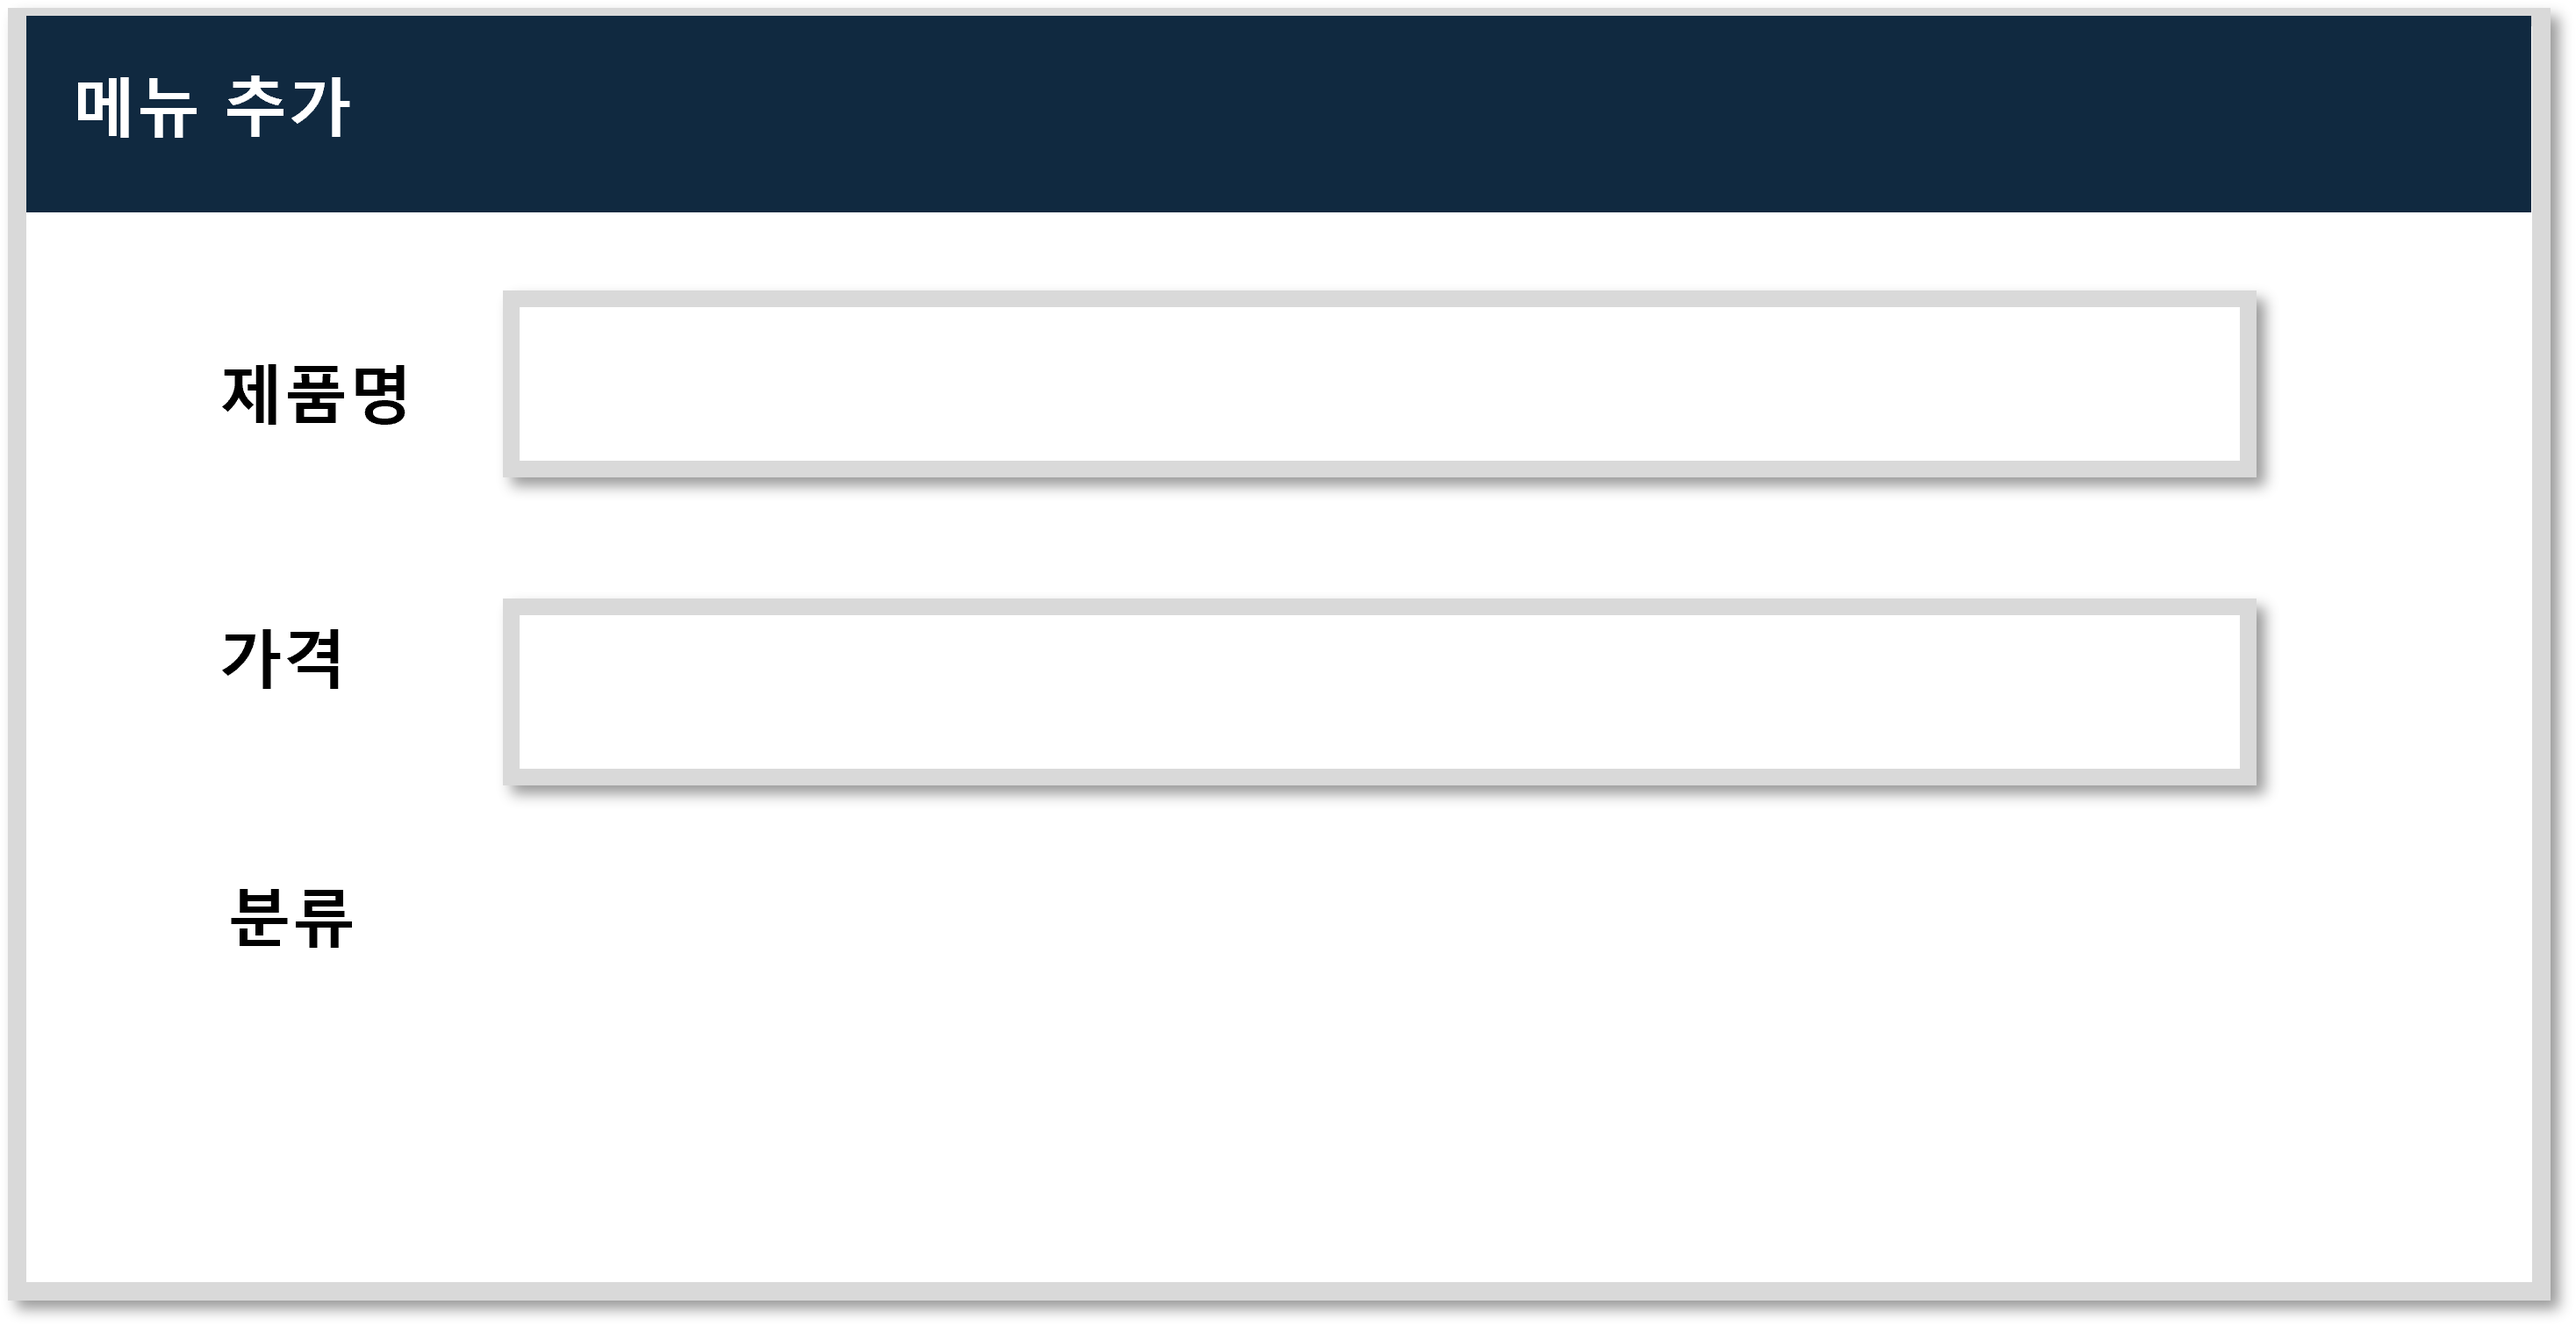
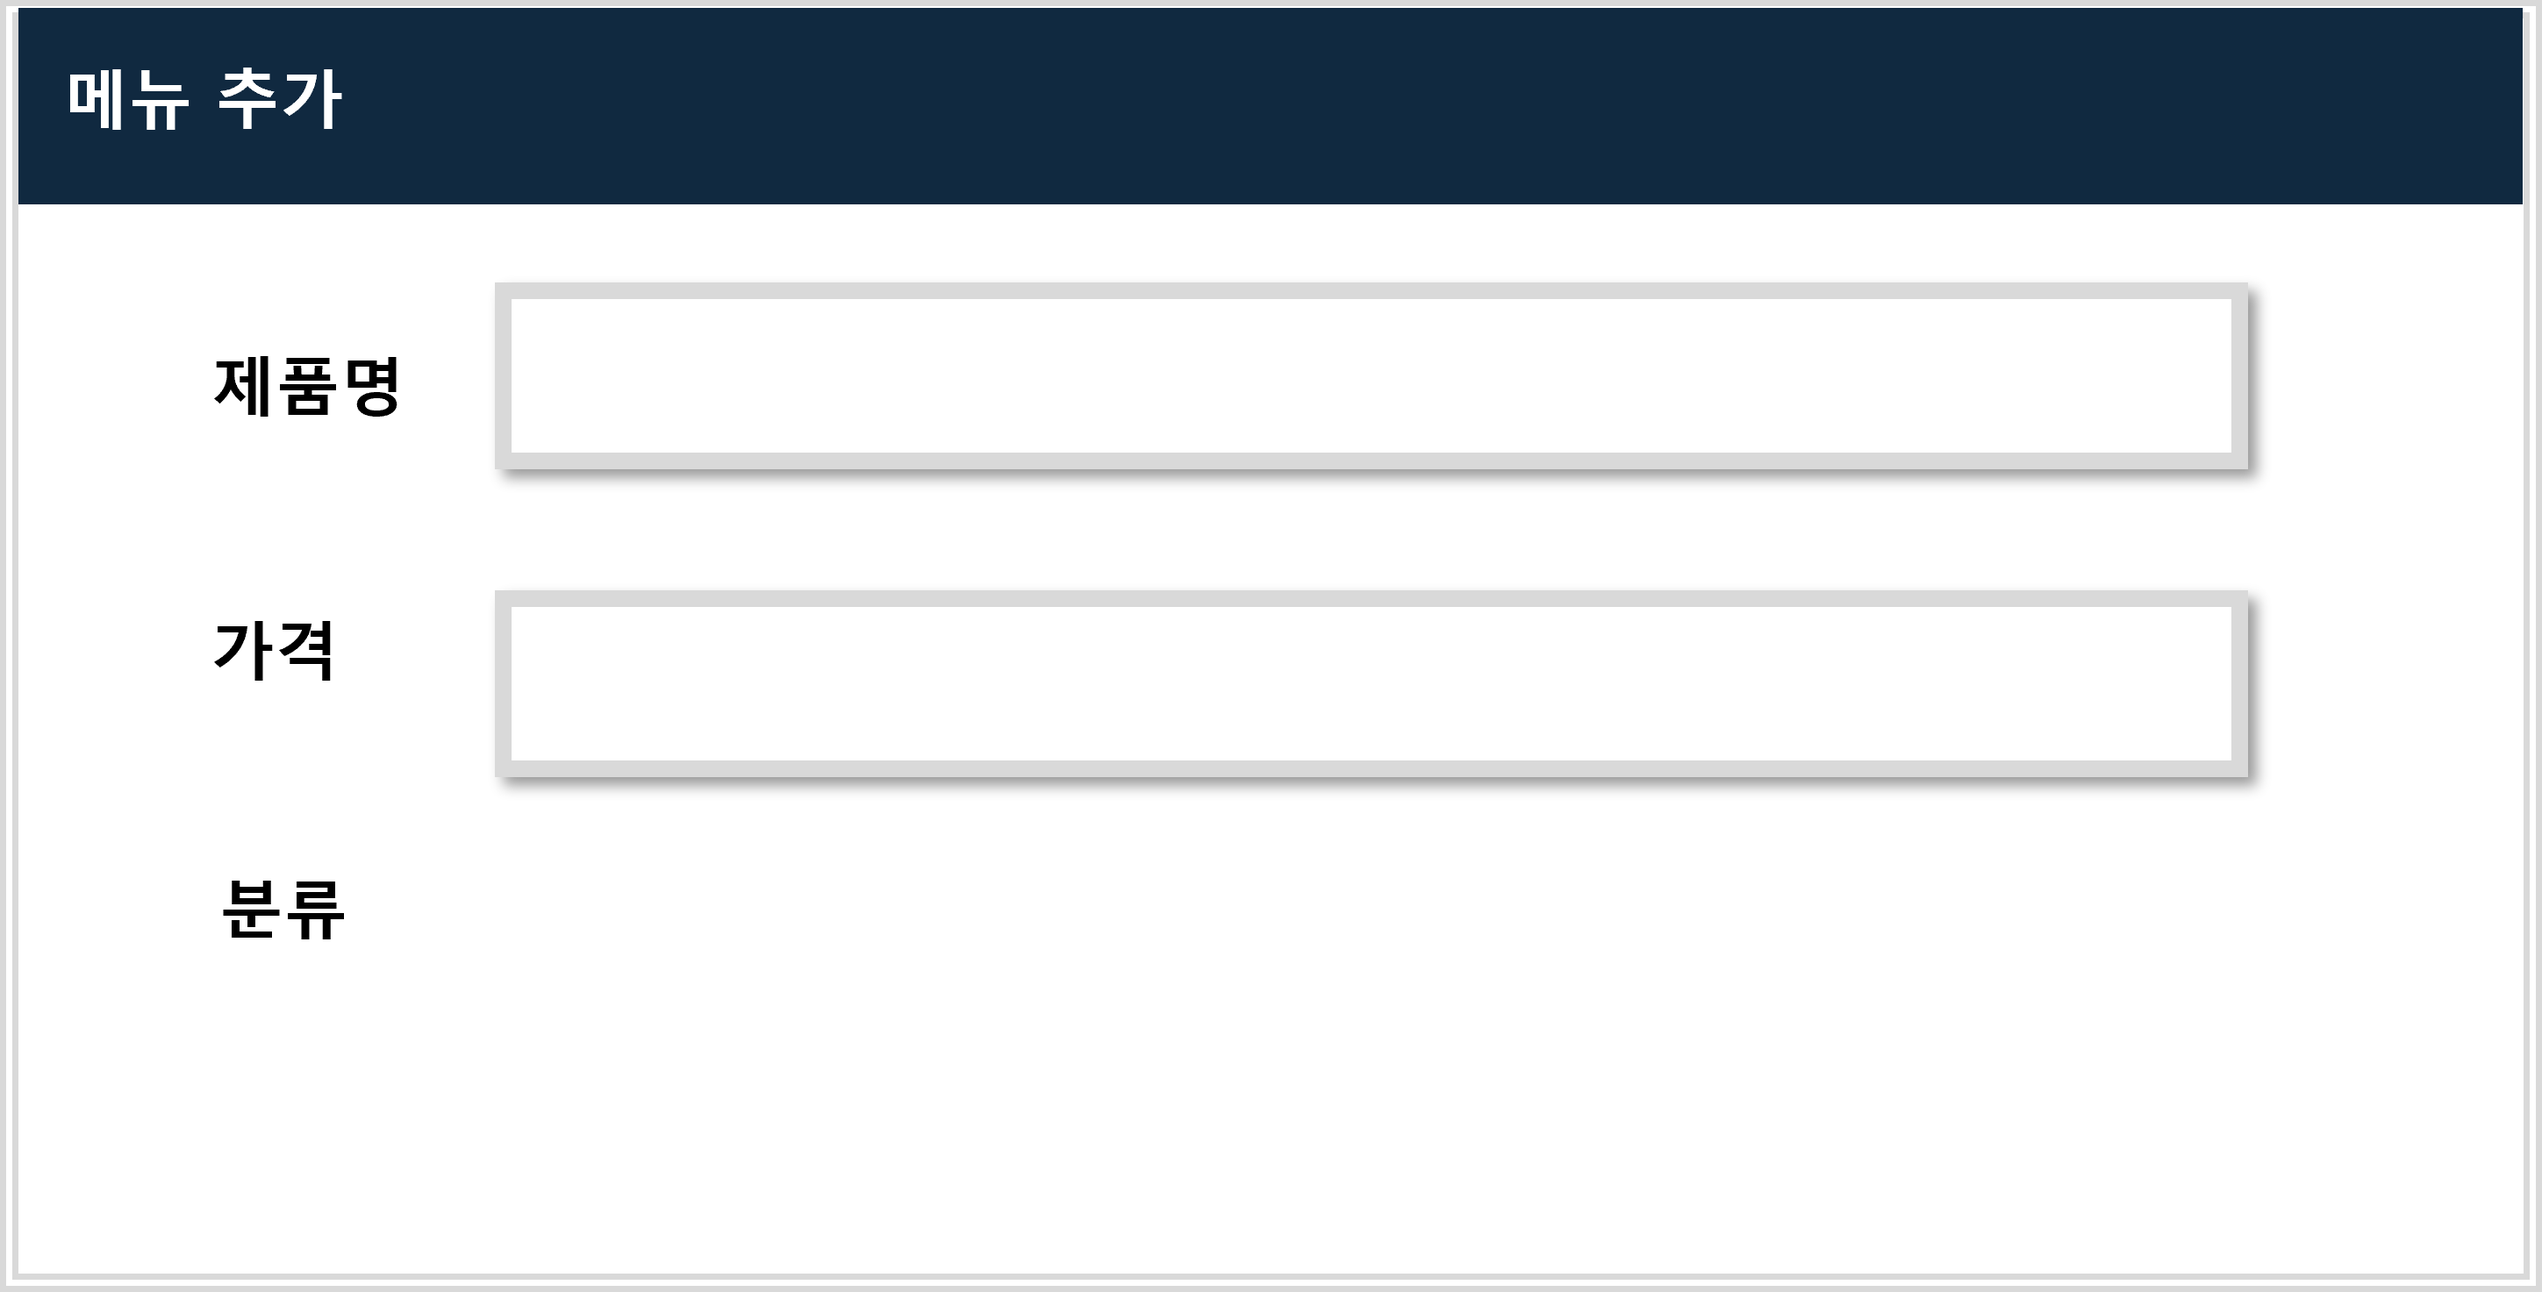
상품 관리 페이지 지금까지 한거 12.12

diff --git a/src/pos/kjh/ProductManagementJFrame.java b/src/pos/kjh/ProductManagementJFrame.java
@@ -27,62 +27,25 @@ import javax.swing.JTextField;
 public class ProductManagementJFrame extends JFrame {
 
 	TopPanel tp = new TopPanel();
-	
+	JButton btn = new JButton();
+
 	public ProductManagementJFrame() throws IOException {
+		
+		add(labelImage("PosImages/상품 관리 이미지/검색바.png", 200, 100, 700, 51));
+		add(labelImage("PosImages/상품 관리 이미지/메뉴 리스트 기본 틀.png", 48, 190, 1100, 400));
+		serch();
 		buttons();
 	}
 	
-	public void buttons() throws IOException {
-		
-
+	public JTextField serch() {
 		JTextField serch = new JTextField();
-		
+
 		serch.setBounds(215, 100, 700, 49);
 		serch.setOpaque(false);
 		serch.setBorder(javax.swing.BorderFactory.createEmptyBorder());
 		
-		add(serch);
-		
-		add(labelImage("PosImages/상품 관리 이미지/검색바.png", 200, 100, 700, 51));
-		add(labelImage("PosImages/상품 관리 이미지/메뉴 리스트 기본 틀.png", 48, 190, 1100, 400));
-		
-		add(btnImage("PosImages/상품 관리 이미지/검색 버튼.png", "PosImages/상품 관리 이미지/검색 버튼 클릭.png",  910,100,95,50));
-		add(btnImage("PosImages/상품 관리 이미지/돌아가기 버튼.png","PosImages/상품 관리 이미지/돌아가기 버튼 클릭.png", 20, 690, 110, 55));
-		add(btnImage("PosImages/상품 관리 이미지/삭제 버튼.png","PosImages/상품 관리 이미지/삭제 버튼 클릭.png", 1030, 620, 120, 55));
-		add(btnImage("PosImages/상품 관리 이미지/수정 시작 버튼.png","PosImages/상품 관리 이미지/수정 시작 버튼 클릭.png", 900, 620, 120, 55));
-		add(btnImage("PosImages/상품 관리 이미지/추가 시작 버튼.png","PosImages/상품 관리 이미지/추가 시작 버튼 클릭.png", 770, 620, 120, 55));
-		add(tp);
-		
-		JButton addBtn = btnImage("PosImages/상품 관리 이미지/추가 시작 버튼.png",
-				"PosImages/상품 관리 이미지/추가 시작 버튼 클릭.png", 
-				770, 620, 120, 55);
-		
-		addBtn.addActionListener(new ActionListener() {
-					
-					@Override
-					public void actionPerformed(ActionEvent e) {
-						JFrame menu = new JFrame();
-						
-						menu.setLayout(null);
-						menu.setSize(1000, 600);
-						menu.setVisible(true);
-						menu.getContentPane().setBackground(new Color(255, 255, 255));
-						menu.setLocationRelativeTo(null);
-						menu.setResizable(false);
-					}
-		});
-		
-		setLayout(null);
-		setSize(1200, 800);
-		setVisible(true);
-		setDefaultCloseOperation(JFrame.EXIT_ON_CLOSE);
-		getContentPane().setBackground(new Color(64, 64, 64));
-		setLocationRelativeTo(null);
-		setResizable(false);
+		return serch;
 	}
-	
-
-	
 	
 	public static JLabel labelImage(String image, int a, int b, int c, int d) throws IOException {
 		JLabel l = new JLabel();
@@ -90,20 +53,70 @@ public class ProductManagementJFrame extends JFrame {
 		Image lImage = bufferedlImage.getScaledInstance(c, d, Image.SCALE_SMOOTH);
 		l.setIcon(new ImageIcon(lImage));
 		l.setBounds(a, b, c, d);
-		
+
 		return l;
-		
+
+	}
+
+	public JButton buttons() throws IOException {
+		JButton serchBtn = btnImage("PosImages/상품 관리 이미지/검색 버튼.png", 
+				"PosImages/상품 관리 이미지/검색 버튼 클릭.png",  910,100,95,50);
+
+		JButton backBtn = btnImage("PosImages/상품 관리 이미지/돌아가기 버튼.png",
+				"PosImages/상품 관리 이미지/돌아가기 버튼 클릭.png", 20, 690, 110, 55);
+
+		JButton deleteBtn = btnImage("PosImages/상품 관리 이미지/삭제 버튼.png",
+				"PosImages/상품 관리 이미지/삭제 버튼 클릭.png", 1030, 620, 120, 55);
+
+		JButton modifyBtn = btnImage("PosImages/상품 관리 이미지/수정 시작 버튼.png",
+				"PosImages/상품 관리 이미지/수정 시작 버튼 클릭.png", 900, 620, 120, 55);
+
+		JButton addBtn = btnImage("PosImages/상품 관리 이미지/추가 시작 버튼.png",
+				"PosImages/상품 관리 이미지/추가 시작 버튼 클릭.png", 770, 620, 120, 55);
+
+		add(serchBtn);
+		add(backBtn);
+		add(deleteBtn);
+		add(modifyBtn);
+		add(addBtn);
+		add(tp);
+
+
+		addBtn.addActionListener(new ActionListener() {
+
+			@Override
+			public void actionPerformed(ActionEvent e) {
+				try {
+					new MenuAddFrame();
+				} catch (IOException e1) {
+					// TODO Auto-generated catch block
+					e1.printStackTrace();
+				}
+			}
+		});
+
+		add(addBtn);
+		setLayout(null);
+		setSize(1200, 800);
+		setVisible(true);
+		setDefaultCloseOperation(JFrame.EXIT_ON_CLOSE);
+		getContentPane().setBackground(new Color(64, 64, 64));
+		setLocationRelativeTo(null);
+		setResizable(false);
+
+		return addBtn;
 	}
 
 
-	public static JButton btnImage(String image, String clickImage, int a, int b, int c, int d) throws IOException {
 		
+	public static JButton btnImage(String image, String clickImage, int a, int b, int c, int d) throws IOException {
+
 		JButton btn = new JButton();
 		BufferedImage bufferedBtnImage = ImageIO.read(new File(image));
 		Image btnImage = bufferedBtnImage.getScaledInstance(c, d, Image.SCALE_SMOOTH);
 		btn.setIcon(new ImageIcon(btnImage));
 		btn.setBounds(a, b, c, d);
-		
+
 		btn.setBorderPainted(false);
 		btn.setContentAreaFilled(false);
 		btn.setFocusPainted(false);
@@ -114,18 +127,18 @@ public class ProductManagementJFrame extends JFrame {
 
 		btn.setPressedIcon(btnClickIcon);
 
-		
+
 		return btn;
 	}
-	
 
-	public static void main(String[] args) throws IOException {
-		new ProductManagementJFrame();
+
+		public static void main(String[] args) throws IOException {
+			new ProductManagementJFrame();
+		}
+
+
+
+
+
+
 	}
-
-
-
-
-	
-	
-}

diff --git a/src/pos/kjh/MenuAddFrame.java b/src/pos/kjh/MenuAddFrame.java
@@ -1,26 +1,100 @@
 package pos.kjh;
 
+import java.awt.Dimension;
 import java.awt.Color;
+import java.awt.Graphics;
+import java.awt.Image;
+import java.awt.image.BufferedImage;
+import java.io.File;
+import java.io.IOException;
 
+import javax.imageio.ImageIO;
+import javax.swing.Icon;
+import javax.swing.ImageIcon;
+import javax.swing.JButton;
 import javax.swing.JFrame;
+import javax.swing.JPanel;
+import javax.swing.JRadioButton;
+import javax.swing.JScrollPane;
 
 public class MenuAddFrame extends JFrame{
+	
+	JScrollPane scrollPane;
+	ImageIcon icon;
+	
+	
+	
+	public JButton fixBtn() throws IOException{
+		JButton fixBtn = new JButton();
 
-	public MenuAddFrame() {
-		openFrame();
-	}
-	
-	public void openFrame() {
+		BufferedImage bufferedfixBtnImage = ImageIO.read(new File("PosImages/상품 관리 이미지/메뉴 추가 창 확인 버튼.png"));
+		Image fixBtnImage = bufferedfixBtnImage.getScaledInstance(100,50, Image.SCALE_SMOOTH);
+		fixBtn.setIcon(new ImageIcon(fixBtnImage));
+		fixBtn.setBounds(750,380, 100,50);
+
+		fixBtn.setBorderPainted(false);
+		fixBtn.setContentAreaFilled(false);
+		fixBtn.setFocusPainted(false);
+
+		BufferedImage bufferedBtnClickImage = ImageIO.read(new File("PosImages/상품 관리 이미지/메뉴 추가 창 확인 버튼 클릭.png"));
+		Image btnClickImage = bufferedBtnClickImage.getScaledInstance(100,50, Image.SCALE_SMOOTH);
+		Icon btnClickIcon = new ImageIcon(btnClickImage);
 		
-		setLayout(null);
-		setSize(1000, 600);
-		setVisible(true);
-		getContentPane().setBackground(new Color(255, 255, 255));
-		setLocationRelativeTo(null);
-		setResizable(false);
+		fixBtn.setPressedIcon(btnClickIcon);
+
+		return fixBtn;
 	}
+
 	
-	public static void main(String[] args) {
+	public MenuAddFrame() throws IOException {
+		
+		JRadioButton coffee = new JRadioButton("Coffee");
+		coffee.setBounds(180, 305, 90, 70);
+		coffee.setFont(coffee.getFont().deriveFont(20.0f));
+		coffee.setBorderPainted(false);
+		coffee.setContentAreaFilled(false);
+		coffee.setFocusPainted(false);
+		
+		
+
+		icon = new ImageIcon("PosImages/상품 관리 이미지/메뉴 추가 창 기본 틀.png");
+
+		JPanel background = new JPanel() {
+			public void paintComponent(Graphics g) {
+				Dimension d = getSize();
+				g.drawImage(icon.getImage(), 0, 0, d.width, d.height,null);
+				setOpaque(false); 
+				super.paintComponent(g);
+			}
+		};
+		
+		scrollPane = new JScrollPane(background);
+		setContentPane(scrollPane);
+		
+			
+		background.add(fixBtn());
+
+		background.setBounds(0, 0, 890, 480);
+		
+		add(coffee);
+		add(background);
+		
+		
+		background.setLayout(null);	
+		setLayout(null);
+		//setUndecorated(true);
+		setResizable(false);
+		setSize(900, 480);
+		setLocationRelativeTo(null);
+		setVisible(true);
+		
+		
+
+	}
+
+
+
+	public static void main(String[] args) throws IOException {
 		new MenuAddFrame();
 	}
 }
